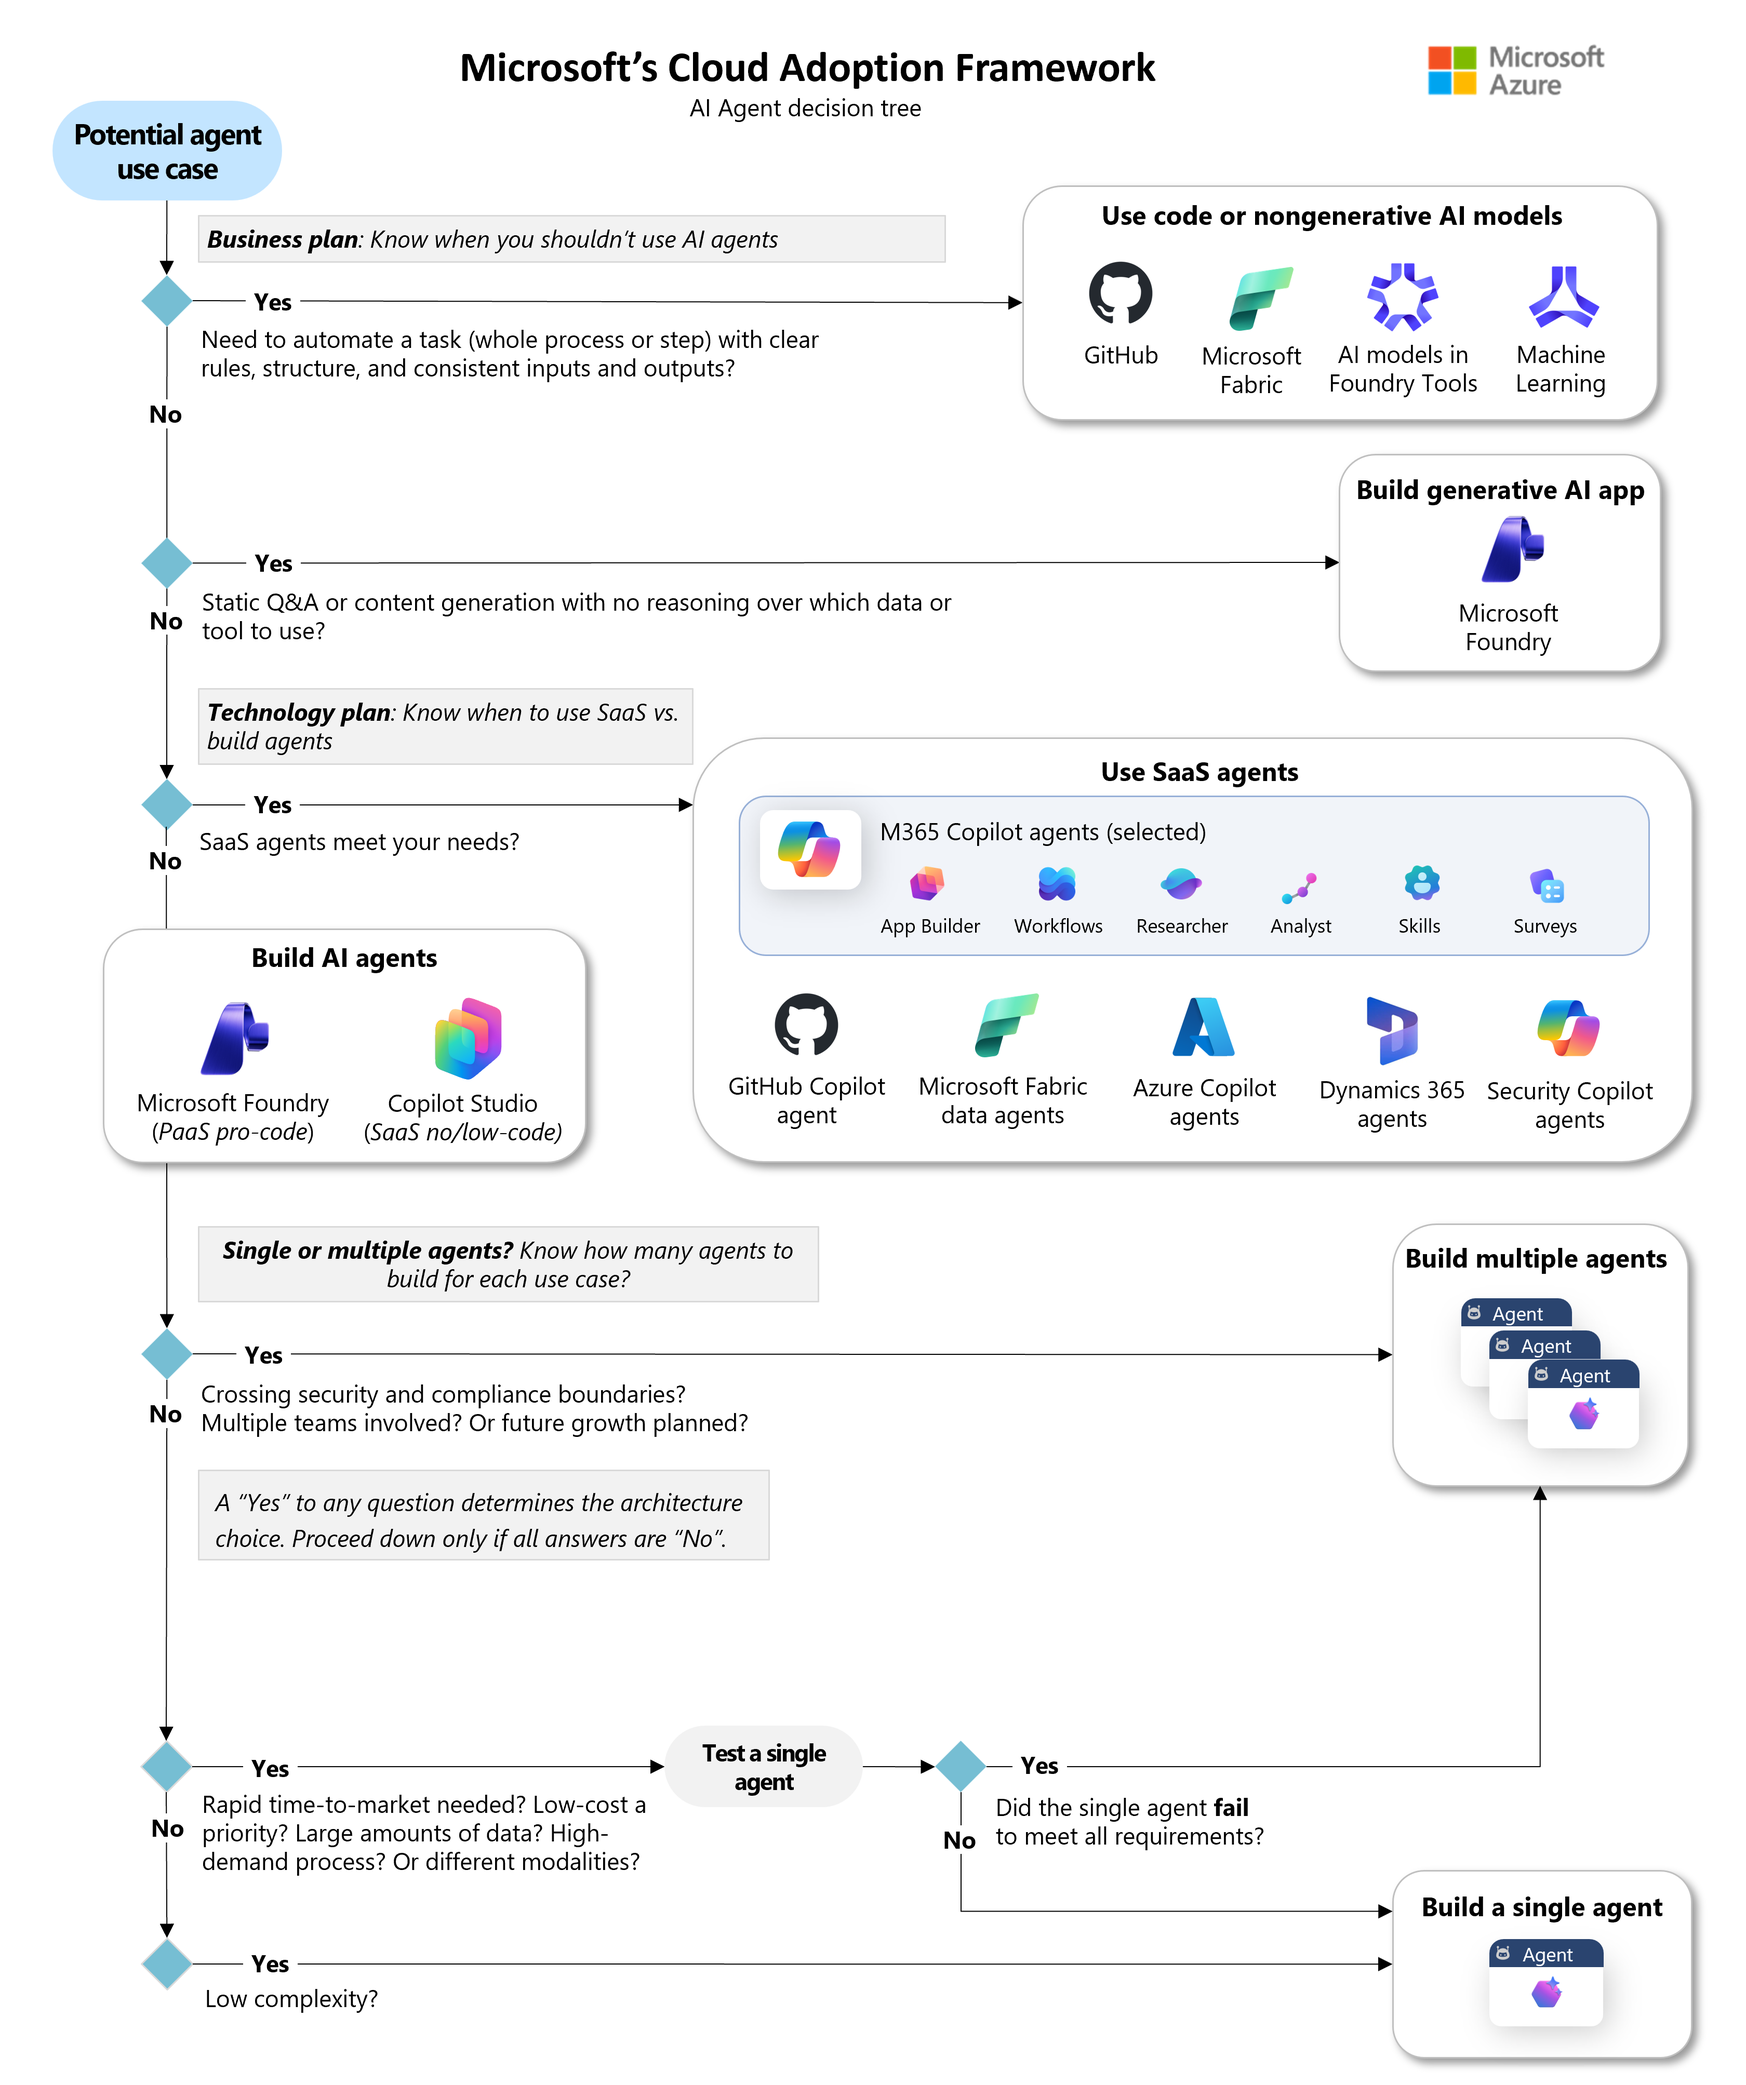
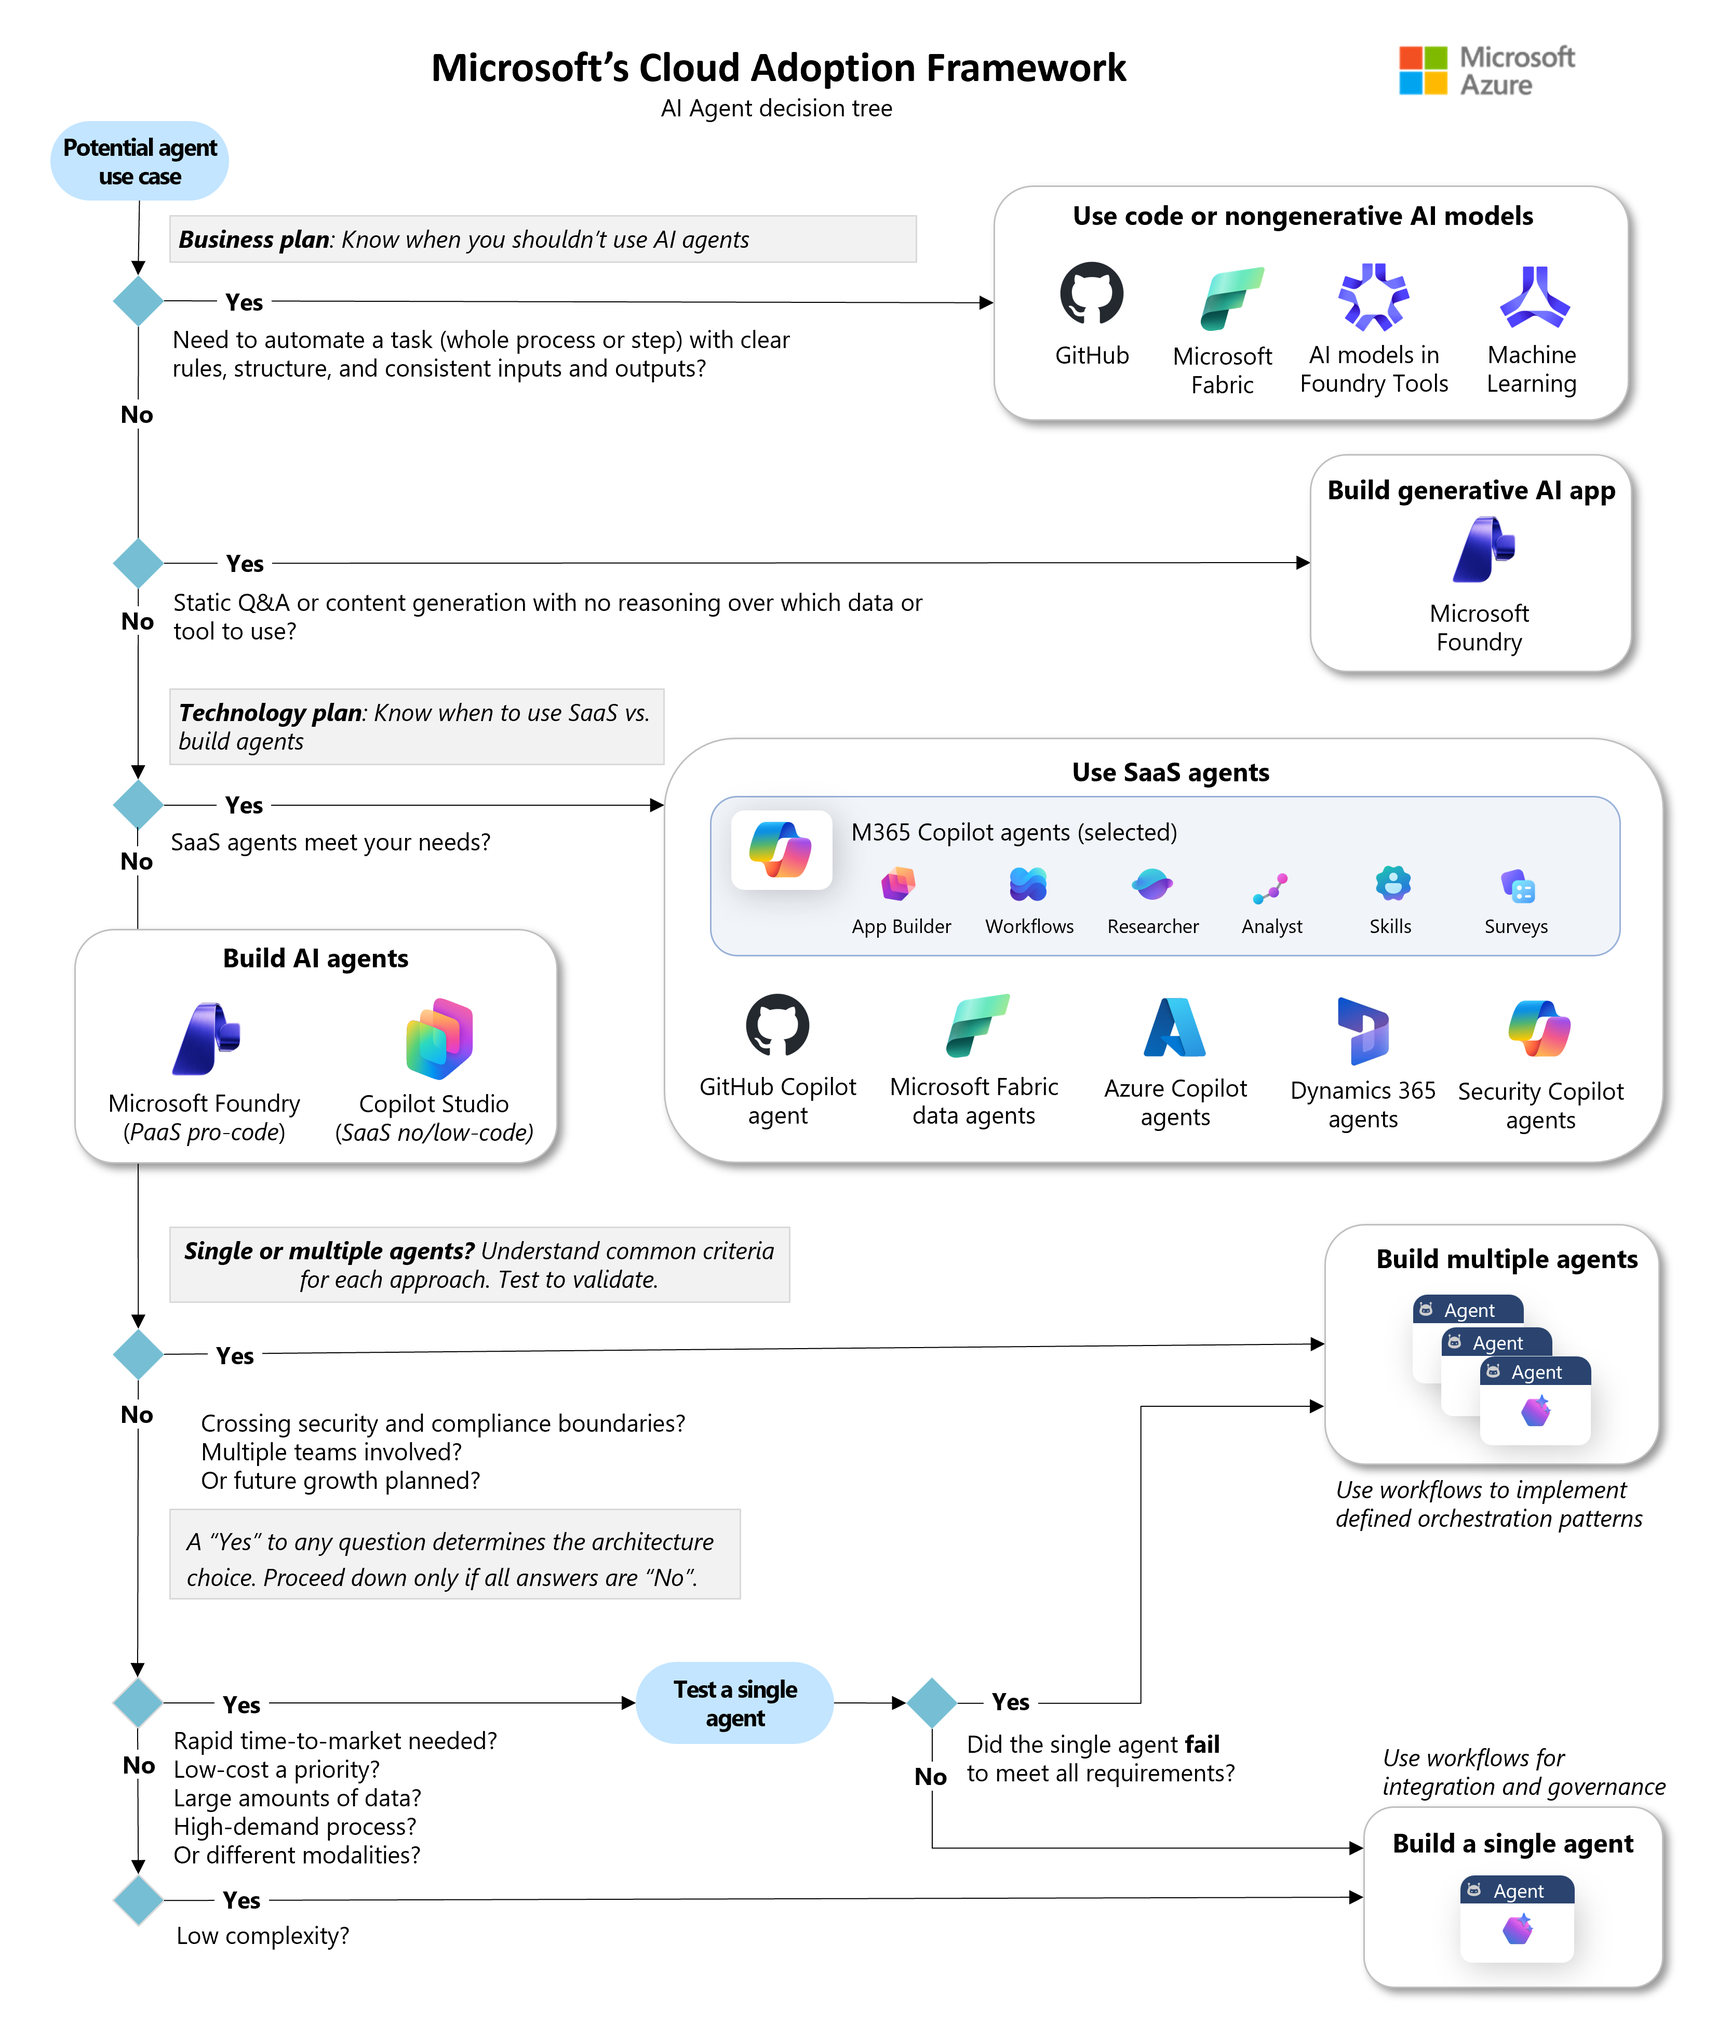
updates

diff --git a/docs/ai-agents/build-secure-process.md b/docs/ai-agents/build-secure-process.md
@@ -34,7 +34,7 @@ Create a governance artifact that documents what the agent system does, how it s
 Proper setup reduces deployment delays, ensures compliance, and simplifies scaling as agent adoption grows. **Select the technology platform.** Choose between Foundry, Copilot Studio, or custom frameworks based on control, ease of use, and integration needs. See [Technology plan](./technology-solutions-plan-strategy.md) for more information on platform selection.
 
 **Microsoft facilitation:**<br>
-:::image type="icon" source="./images/foundry-icon.png"::: **Foundry**: Use [prompt-based agents](/azure/ai-foundry/agents/concepts/development-lifecycle?view=foundry#types-of-agents) for rapid development or [hosted agents](/azure/ai-foundry/agents/concepts/hosted-agents?view=foundry) for advanced orchestration. Apply the Well-Architected Framework principles for [AI workloads](/azure/well-architected/ai/) and start with the [AI landing zone](https://github.com/Azure/AI-Landing-Zones). See also [AI Ready](/azure/cloud-adoption-framework/scenarios/ai/ready) for Azure landing zone guidance.
+:::image type="icon" source="./images/foundry-icon.png"::: **Foundry**: Use [prompt-based agents](/azure/ai-foundry/agents/concepts/development-lifecycle?view=foundry#types-of-agents) for rapid development. For [hosted agents](/azure/ai-foundry/agents/concepts/hosted-agents?view=foundry), apply the Well-Architected Framework principles for [AI workloads](/azure/well-architected/ai/) and start with the [AI landing zone](https://github.com/Azure/AI-Landing-Zones). See also [AI Ready](/azure/cloud-adoption-framework/scenarios/ai/ready) for Azure landing zone guidance.
 
 :::image type="icon" source="./images/copilot-studio-icon.png"::: **Copilot Studio**:  Use for SaaS integration and low-code extensibility. [Verify licensing](/microsoft-copilot-studio/requirements-licensing-subscriptions) and [configure environments](/microsoft-copilot-studio/environments-first-run-experience) to separate development, testing, and production workloads.
 
@@ -52,7 +52,7 @@ Orchestration determines how agents coordinate, make decisions, and execute task
 3. **Orchestration and workflows.** See workflow guidance for [single agents](./single-agent-multiple-agents.md#single-agent-workflows) and [multi-agent systems](./single-agent-multiple-agents.md#mutli-agent-orchestration-and-workflows).
 
 **Microsoft facilitation:**<br>
-:::image type="icon" source="./images/foundry-icon.png"::: **Foundry**: Use [Workflows](/azure/ai-foundry/agents/concepts/workflow?view=foundry) for visual, low-code design suitable for rapid prototyping.
+:::image type="icon" source="./images/foundry-icon.png"::: **Foundry**: Use [workflows](/azure/ai-foundry/agents/concepts/workflow?view=foundry) for visual, low-code design suitable for rapid prototyping.
 
 :::image type="icon" source="./images/microsoft-agent-framework-icon.png"::: **Microsoft Agent Framework**: Use [workflows](/agent-framework/user-guide/workflows/overview) to implement orchestration patterns in code.
 

diff --git a/docs/ai-agents/single-agent-multiple-agents.md b/docs/ai-agents/single-agent-multiple-agents.md
@@ -17,7 +17,7 @@ This article helps you understand when to use a single agent to automate a busin
 
 :::image type="content" source="./images/ai-agent-decision-tree.png" alt-text="Diagram that shows a decision tree for single-agent or multi-agent systems." lightbox="./images/ai-agent-decision-tree.png" border="false":::
 
-## Build systems with multiple agents
+## Build multiple agents
 
 Multi-agent systems employ specialized agents to handle distinct tasks or roles within a single system. This modular design enables parallel operation and optimization for specific domains. While this approach handles complex environments effectively, it introduces significant coordination latency and governance overhead. Organizations should use a multi-agent architecture when specific criteria necessitate separation.
 
@@ -31,10 +31,12 @@ Multi-agent systems employ specialized agents to handle distinct tasks or roles 
 
 Multi-agent systems use workflows to enforce orchestration patterns. See [AI agent orchestration patterns](/azure/architecture/ai-ml/guide/ai-agent-design-patterns) in the Azure Architecture Center. Without a workflow, manual chaining of agents becomes brittle and difficult to maintain. Workflows provide:
 
-- **Coordination:** Defines how agents interact (parallel, sequential, conditional).
-- **State management:** Preserves context across agents.
-- **Branching logic:** Invokes different agents based on conditions, such as escalating from a chatbot to a billing agent or human support.
-- **Transparency:** Visualizes and debugs the flow of information.
+| Workflow capability | Purpose |
+|---|---|
+| **Coordination** | Defines how agents interact (parallel, sequential, conditional) |
+| **State management** | Preserves context across agents |
+| **Branching logic** | Invokes different agents based on conditions, such as escalating from a chatbot to a billing agent or human support |
+| **Transparency** | Visualizes and debugs the flow of information |
 
 See [Orchestration strategy](./build-secure-process.md#pick-an-orchestration-strategy) for technology specific options.
 
@@ -42,7 +44,7 @@ See [Orchestration strategy](./build-secure-process.md#pick-an-orchestration-str
 
 In addition to coordination requirements, each interaction requires protocol design, error handling, and state management. Each component requires separate prompts, monitoring, logging, and debugging capabilities. Security surfaces increase through additional credentials and data transit points. Cost structures often increase due to redundant context processing and communication overhead.
 
-## Comparative prototyping
+## Prototype single and multiple agents
 
 Teams often default to multi-agent architectures based on untested assumptions about complexity, performance, or role separation. Before committing to orchestration overhead, always start with a single-agent prototype and validate whether it meets requirements. Move to multi-agent only if testing shows clear limitations. Focus prototyping on these decision drivers:
 
